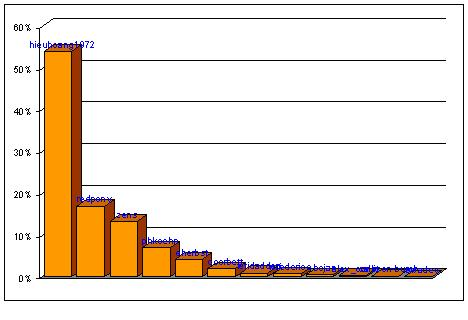
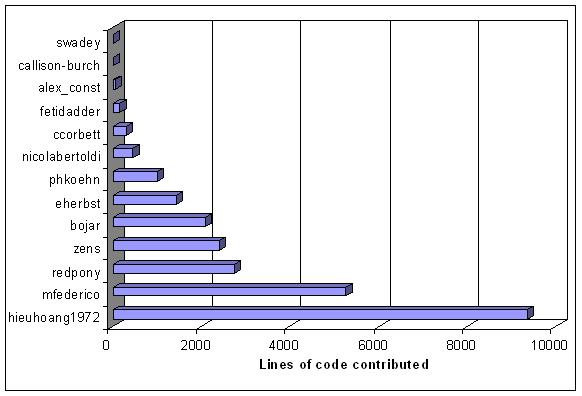
updated report chart
git-svn-id: https://mosesdecoder.svn.sourceforge.net/svnroot/mosesdecoder/trunk@944 1f5c12ca-751b-0410-a591-d2e778427230

diff --git a/report/report.tex b/report/report.tex
@@ -650,22 +650,13 @@ We therefore kept to the following principles when developing Moses: \\
 \end{itemize}
 The number of functionality added in the six weeks by every member of the team at the Johns Hopkins University workshop, as can be seen from the figures below, is evident that many of these design goals were met.
 
-\begin{tabular}{|r|r|r|}
-\hline
-$ $&$ Before JHU workshop $&$ After JHU workshop $\\
-\hline
-Lines of code	& 9000	& 15,652\\
-Number of classes	& 30	& 60\\
-Lines of code attributed & & \\
-to original developer	& 100\%	& 54\%\\
-\hline
-\end{tabular}
-
+\begin{center}
 \begin{figure}[h]
 \centering
-\includegraphics[scale=1]{hieu-1}
-\caption{Percentage of code contribute by each developer}
+\includegraphics[scale=0.8]{hieu-1}
+\caption{Lines of code contribute by each developer}
 \end{figure}
+\end{center}
 
 By adding factored translation to conventional phrase based decoding we hope to incorporate linguistic information into the translation process in order to create a competitive system.\\
 
